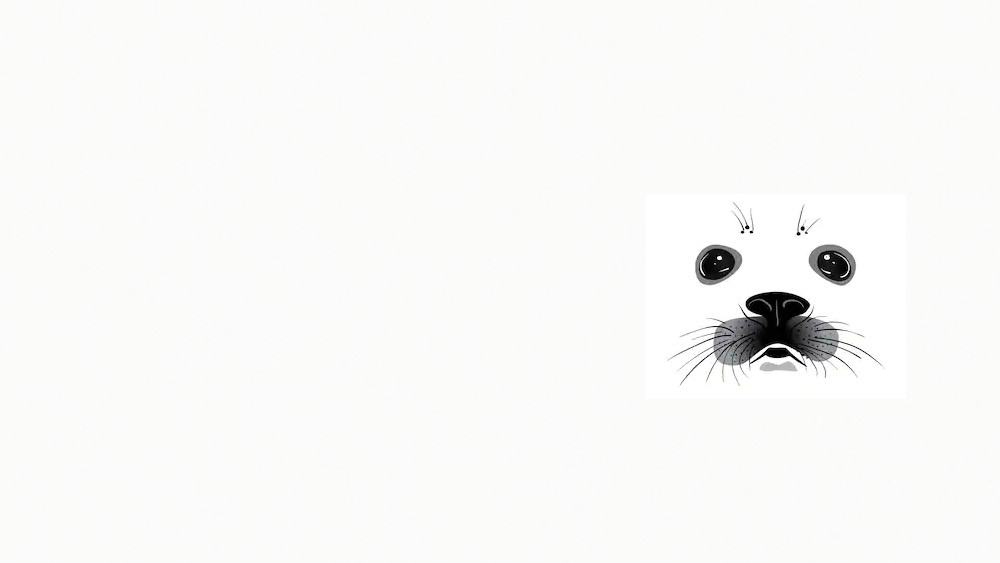
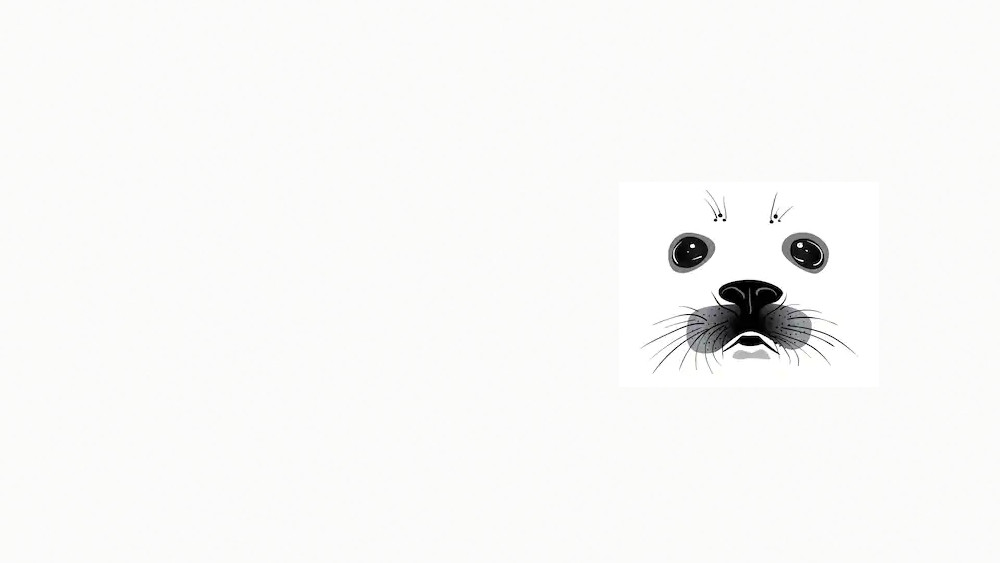
Updated airship textures

Changed region(s): [[0.651, 0.3925, 0.868, 0.6643], [0.713, 0.3623, 0.868, 0.5133]]

diff --git a/TPs/proj/MyAirshipBody.js b/TPs/proj/MyAirshipBody.js
@@ -43,20 +43,28 @@ class MyAirshipBody extends CGFobject {
 
 	initMaterials(){
 		this.bodyMaterial = new CGFappearance(this.scene);
-		this.bodyMaterial.setAmbient(0.7,0.7,0.7,1);
+		this.bodyMaterial.setAmbient(0.8,0.8,0.8,1);
         this.bodyMaterial.setDiffuse(0.9,0.9,0.9,1);
-        this.bodyMaterial.setSpecular(0.2,0.2,0.2,1);
+        this.bodyMaterial.setSpecular(0.3,0.3,0.3,1);
         this.bodyMaterial.setShininess(10);
-        this.bodyMaterial.loadTexture('images/sealBody2.jpg');
+        this.bodyMaterial.loadTexture('images/sealBody.jpg');
 		this.bodyMaterial.setTextureWrap('REPEAT','REPEAT');
 		
-		this.cockpitMaterial = new CGFappearance(this.scene);
-		this.cockpitMaterial.setAmbient(0.7,0.7,0.7,1);
-        this.cockpitMaterial.setDiffuse(0.9,0.9,0.9,1);
-        this.cockpitMaterial.setSpecular(0.2,0.2,0.2,1);
-        this.cockpitMaterial.setShininess(10);
-        this.cockpitMaterial.loadTexture('images/gray.jpg');
-        this.cockpitMaterial.setTextureWrap('REPEAT','REPEAT');
+		this.grayMaterial = new CGFappearance(this.scene);
+		this.grayMaterial.setAmbient(0.7,0.7,0.7,1);
+        this.grayMaterial.setDiffuse(0.6,0.6,0.6,1);
+        this.grayMaterial.setSpecular(0.2,0.2,0.2,1);
+        this.grayMaterial.setShininess(10);
+        this.grayMaterial.loadTexture('images/gray.jpg');
+		this.grayMaterial.setTextureWrap('REPEAT','REPEAT');
+		
+		this.blackMaterial = new CGFappearance(this.scene);
+		this.blackMaterial.setAmbient(0.2,0.2,0.2,1);
+        this.blackMaterial.setDiffuse(0.6,0.6,0.6,1);
+        this.blackMaterial.setSpecular(0.1,0.1,0.1,1);
+        this.blackMaterial.setShininess(10);
+        this.blackMaterial.loadTexture('images/black.png');
+		this.blackMaterial.setTextureWrap('REPEAT','REPEAT');
 	}
 
 	display(){
@@ -71,19 +79,22 @@ class MyAirshipBody extends CGFobject {
 		//Rudders
 		//Horizontal
 		this.scene.pushMatrix();
+		this.blackMaterial.apply();
 		this.scene.translate(-0.4, 0, -0.8);
 		this.scene.scale(0.3, 0, 0.3);
 		this.rudder.display();
 		this.scene.popMatrix();
 
 		this.scene.pushMatrix();
+		this.blackMaterial.apply();
 		this.scene.translate(0.4, 0, -0.8);
 		this.scene.scale(-0.3, 0, 0.3);
 		this.rudder.display();
 		this.scene.popMatrix();
 
 		//Vertical
-		this.scene.pushMatrix();
+		this.scene.pushMatrix();		
+		this.blackMaterial.apply();
 		this.scene.translate(0, 0.4, -0.5);
 		this.scene.rotate(this.ang * Math.PI/180, 0, 1, 0);
 		this.scene.rotate(-Math.PI/2, 0, 0, 1);
@@ -93,6 +104,7 @@ class MyAirshipBody extends CGFobject {
 		this.scene.popMatrix();
 
 		this.scene.pushMatrix();
+		this.blackMaterial.apply();
 		this.scene.translate(0, -0.4, -0.5);
 		this.scene.rotate(this.ang * Math.PI/180, 0, 1, 0);
 		this.scene.rotate(Math.PI/2, 0, 0, 1);
@@ -104,7 +116,6 @@ class MyAirshipBody extends CGFobject {
 
 		//Cockpit of the Airship
 		this.scene.pushMatrix();
-		this.cockpitMaterial.apply();
 		this.scene.translate(0, -0.5, 0);
 		this.cockpit.display();
 		this.scene.popMatrix();
@@ -112,12 +123,14 @@ class MyAirshipBody extends CGFobject {
 
 		//Engines of airship
 		this.scene.pushMatrix();
+		this.blackMaterial.apply();
 		this.scene.translate(0.12, -0.515, -0.25);
 		this.scene.scale(0.08, 0.08, 0.08);
 		this.engine.display();
 		this.scene.popMatrix();
 
 		this.scene.pushMatrix();
+		this.blackMaterial.apply();
 		this.scene.translate(-0.12, -0.515, -0.25);
 		this.scene.scale(0.08, 0.08, 0.08);
 		this.engine.display();

diff --git a/TPs/proj/MyCockpit.js b/TPs/proj/MyCockpit.js
@@ -7,14 +7,35 @@ class MyCockpit extends CGFobject {
 	constructor(scene) {
 		super(scene);
 
-		this.front_edge = new MySphere(this.scene, 16, 8);
+		this.edge = new MySphere(this.scene, 16, 8);
 		this.body = new MyCylinder(this.scene, 16);
-		this.back_edge = new MySphere(this.scene, 16, 8);
+
+		this.initMaterials();
 	}
+
+	initMaterials(){
+		this.windows = new CGFappearance(this.scene);
+		this.windows.setAmbient(0.7,0.7,0.7,1);
+        this.windows.setDiffuse(0.6,0.6,0.6,1);
+        this.windows.setSpecular(0.2,0.2,0.2,1);
+        this.windows.setShininess(10);
+        this.windows.loadTexture('images/cockpit_windows.png');
+		this.windows.setTextureWrap('REPEAT','REPEAT');
+
+		this.blackMaterial = new CGFappearance(this.scene);
+		this.blackMaterial.setAmbient(0.2,0.2,0.2,1);
+        this.blackMaterial.setDiffuse(0.6,0.6,0.6,1);
+        this.blackMaterial.setSpecular(0.1,0.1,0.1,1);
+        this.blackMaterial.setShininess(10);
+        this.blackMaterial.loadTexture('images/black.png');
+		this.blackMaterial.setTextureWrap('REPEAT','REPEAT');
+	}
+
 	display(){
 		
 		//Body of the cockpit
 		this.scene.pushMatrix();
+		this.windows.apply();
 		this.scene.rotate(Math.PI/2, 0, 1, 0);
 		this.scene.rotate(Math.PI/2, 0, 0, 1);
 		this.scene.scale(0.1, 0.5, 0.1);
@@ -24,16 +45,18 @@ class MyCockpit extends CGFobject {
 
 		//Front edge
 		this.scene.pushMatrix();
+		this.blackMaterial.apply();
 		this.scene.translate(0, 0, 0.25);
-		this.scene.scale(0.1, 0.1, 0.1);
-		this.front_edge.display();
+		this.scene.scale(0.099, 0.099, 0.099);
+		this.edge.display();
 		this.scene.popMatrix();
 
 		//Back edge
 		this.scene.pushMatrix();
+		this.blackMaterial.apply();
 		this.scene.translate(0, 0, -0.25);
-		this.scene.scale(0.1, 0.1, 0.1);
-		this.back_edge.display();
+		this.scene.scale(0.099, 0.099, 0.099);
+		this.edge.display();
 		this.scene.popMatrix();
 
 	}

diff --git a/TPs/proj/MyScene.js b/TPs/proj/MyScene.js
@@ -40,11 +40,11 @@ class MyScene extends CGFscene {
         this.material.setTextureWrap('REPEAT', 'REPEAT');
 
         this.cubeMaterial = new CGFappearance(this);
-        this.cubeMaterial.setAmbient(1, 1, 1, 1);
+        this.cubeMaterial.setAmbient(0.7, 0.7, 0.7, 1);
         this.cubeMaterial.setDiffuse(0, 0, 0, 1);
         this.cubeMaterial.setSpecular(0, 0, 0, 1);
         this.cubeMaterial.setShininess(10.0);
-        this.cubeMaterial.setEmission(0.5, 0.5, 0.5, 1);
+        this.cubeMaterial.setEmission(0.7, 0.7, 0.7, 1);
         this.cubeMaterial.setTexture(this.cubemap); //default
         this.cubeMaterial.setTextureWrap('REPEAT', 'REPEAT');
 
@@ -93,7 +93,8 @@ class MyScene extends CGFscene {
         this.lights[0].update();
     }
     initCameras() {
-        this.camera = new CGFcamera(0.4, 0.1, 500, vec3.fromValues(40, 20, 40), vec3.fromValues(-10, 0, -10));
+        //this.camera = new CGFcamera(0.4, 0.1, 500, vec3.fromValues(40, 20, 40), vec3.fromValues(-10, 0, -10));
+        this.camera = new CGFcamera(0.8, 0.1, 500, vec3.fromValues(30, 20, 30), vec3.fromValues(0, 10, 0));
     }
     setDefaultAppearance() {
         this.setAmbient(0.2, 0.4, 0.8, 1.0);

diff --git a/TPs/proj/MyEngine.js b/TPs/proj/MyEngine.js
@@ -7,9 +7,8 @@ class MyEngine extends CGFobject {
 	constructor(scene) {
 		super(scene);
 		this.sphere = new MySphere(this.scene, 16, 8);
-		this.rudder_top = new MyRudder(this.scene);
-		this.rudder_bottom = new MyRudder(this.scene);
-		
+		this.rudder = new MyRudder(this.scene);
+
 		this.ang = 0;
 	}
 
@@ -28,7 +27,7 @@ class MyEngine extends CGFobject {
 		this.scene.translate(-0.25, 0.5, -1);
 		this.scene.scale(0.33, 0.33, 0);
 		this.scene.rotate(Math.PI/2, 1, 0, 0);
-		this.rudder_top.display();
+		this.rudder.display();
 		this.scene.popMatrix();
 
 		this.scene.pushMatrix();
@@ -36,7 +35,7 @@ class MyEngine extends CGFobject {
 		this.scene.translate(0.25, -0.5, -1);
 		this.scene.scale(-0.33, -0.33, 0);
 		this.scene.rotate(Math.PI/2, 1, 0, 0);
-		this.rudder_bottom.display();
+		this.rudder.display();
 		this.scene.popMatrix();
 	}
 }

diff --git a/TPs/proj/MyRudder.js b/TPs/proj/MyRudder.js
@@ -25,6 +25,13 @@ class MyRudder extends CGFobject {
 			0, 3, 2
 		];
 
+		this.texCoords = [
+			0, 1,
+			0, 0,
+			0.5, 0,
+			1, 1
+		];
+
 		//The defined indices (and corresponding vertices)
 		//will be read in groups of three to draw triangles
 		this.primitiveType = this.scene.gl.TRIANGLES;

diff --git a/TPs/proj/MyVehicle.js b/TPs/proj/MyVehicle.js
@@ -79,6 +79,7 @@ class MyVehicle extends CGFobject {
 		this.vel = 0;
 		this.pos = [0,0,0];
 		this.autoPilot = false;
+		this.airship.velocity = 0;
 	}
 
 	display()
